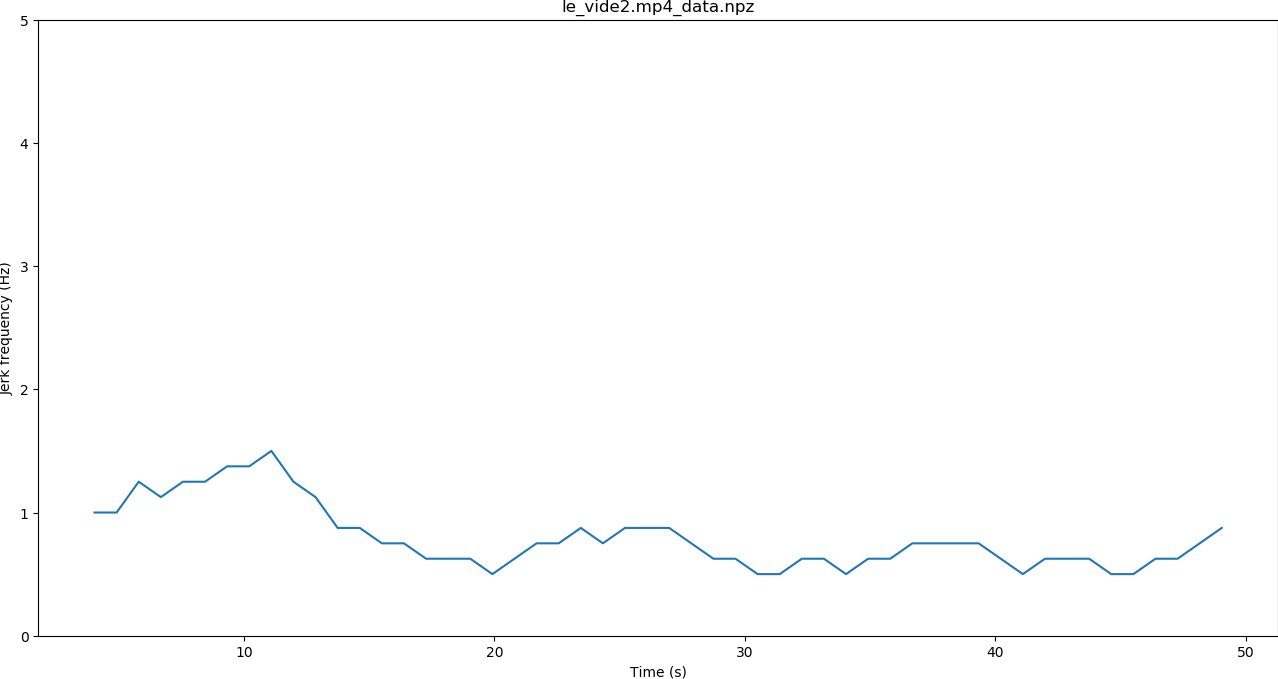
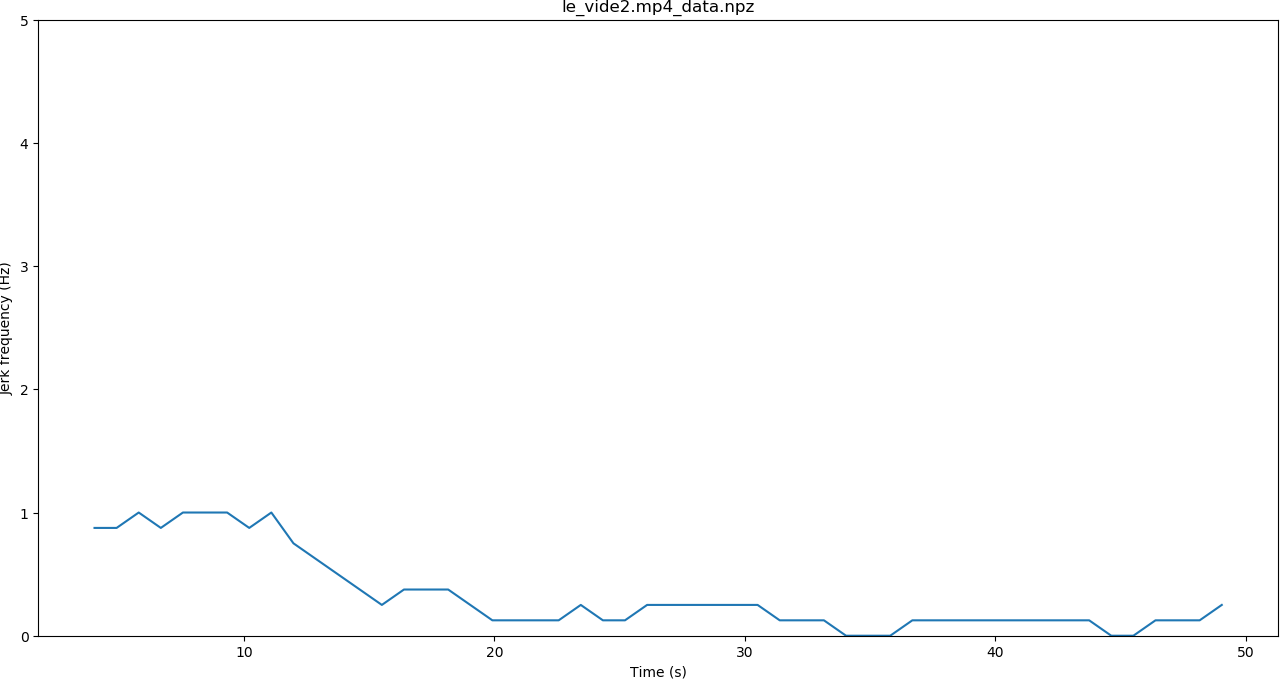
processDataDir : vérif manuelle, now updates DB, ...

diff --git a/py/main/processCourbes.py b/py/main/processCourbes.py
@@ -4,8 +4,12 @@ import numpy as np
 import scipy.signal as signal
 import pywt
 import os
+import sqlite3
 
 directory='../../'
+DBfile = "../../papertube.db"
+conn = sqlite3.connect(DBfile)
+cur = conn.cursor()
 
 def find_peaks(v,thres=0.05,graphCWT=False,graphPeaks=False):
     cwtmatr, freqs = pywt.cwt(v,np.arange(1,10),'mexh')
@@ -48,7 +52,7 @@ def running_freq(t,num,peaks,T):
     f = [nombre_pics_porte(t,peaks,t0,T)/T for t0 in f_t]
     return f_t, f
 
-def processDataDir(directory):
+def processDataDir_old(directory):
     for dirName, subdirList, fileList in os.walk(directory, topdown=False):
             for fname in fileList:
                 if fname.endswith("_data.npz"):
@@ -69,6 +73,46 @@ def processDataDir(directory):
                     plt.savefig(fname="../../fig_freq_main/"+fname+"_freq"+".png",bbox_inches='tight',pad_inches=0)
                     plt.close()
 #plt.show()
+
+def processDataDir(directory,fig_peaks_dir="fig_peaks_main/",fig_freq_dir="fig_freq_main/"):
+    for dirName, subdirList, fileList in os.walk(directory, topdown=False):
+            for fname in fileList:
+                if fname.endswith("_data.npz"):
+                    cur.execute("SELECT id FROM essai WHERE nomFichier=?",(fname.replace("_data.npz",""),))
+                    l = list(cur)
+                    if len(l)==0 :
+                        print("Le fichier d'essai correspondant à",fname,"n'a pas préalablement été importé.")
+                    else :
+                        if len(l)>1 : print("Attention, plusieurs essais ont le même nom de fichier (",fname,").")
+                        npzf = np.load(os.path.join(dirName, fname))
+                        t = npzf['t']
+                        v = npzf['d2']
+                        peaks=find_peaks_kuhn(v,thres=0.5,graphCWT=True,graphPeaks=True)
+                        plt.title(fname)
+                        print("La détection des pics est-elle correcte ? (fermer le plot avant de répondre) (o/n)")
+                        plt.show()
+                        while (input()!="o"):
+                            plt.close()
+                            print("Choisir un seuil :")
+                            s = float(input())
+                            peaks=find_peaks(v,thres=s,graphCWT=True,graphPeaks=True)
+                            plt.title(fname)
+                            print("Et maintenant ? (fermer le plot avant de répondre) (o/n)")
+                            plt.show()
+                        plt.savefig(fname="../../"+fig_peaks_dir+fname+"_peaks"+".png",bbox_inches='tight',pad_inches=0)
+                        plt.close()
+                        freq_t,freq=running_freq(t,int(t[-1]-t[0]),peaks,8)
+                        plt.figure(figsize=(16,8))
+                        plt.plot(freq_t,freq)
+                        plt.ylim(0,5)
+                        plt.ylabel("Jerk frequency (Hz)")
+                        plt.xlabel("Time (s)")
+                        plt.title(fname)
+                        plt.savefig(fname="../../"+fig_freq_dir+fname+"_freq"+".png",bbox_inches='tight',pad_inches=0)
+                        plt.close()
+                        cur.execute("INSERT INTO essai_res(idEssai,fichierFreq) VALUES(?,?)",(l[0][0],fig_freq_dir+fname+"_freq"+".png"))
+                        conn.commit()
+                        
 
 def readData(datafname):
     npzf = np.load(datafname)

diff --git a/py/main/video2courbe.py b/py/main/video2courbe.py
@@ -5,13 +5,15 @@ import scipy.signal as signal
 import matplotlib.pyplot as plt
 import os
 
-inputdir='../../video/'
-outputdir='../../video_data/'
+inputdir='video/'
+outputdir='video_data/'
 
 
 def processDir(inputdir,outputdir,squaresize=0):
     q=0 # déjà existants
     r=0 # nouveaux
+    inputdir="../../"+inputdir
+    outputdir="../../"+outputdir
     for dirName, subdirList, fileList in os.walk(inputdir, topdown=False):
             for fname in fileList:
                 if fname.endswith(".mp4"):

diff --git a/README.md b/README.md
@@ -62,13 +62,13 @@ fais un sous-dossier dans video/ (que j'appelerai ici *banane*) et mets toutes l
 
 dans Pyzo,
 ```
-processDir(../../video/banane/, ../../video_data/)
+processDir("video/banane/", "video_data/")
 ```
 
 #### Importation dans la DB : papertube.db
 
 ```
-intoDB(../../video/banane)
+intoDB("video/banane")
 ```
 
 cela te demandera de renseigner tous les paramètres relatifs à ta série de mesures (tous les fichiers dans *banane/* auront les mêmes paramètres) ; je te conseille de jeter un oeil à la structure de la DB
@@ -77,7 +77,11 @@ cela te demandera de renseigner tous les paramètres relatifs à ta série de me
 
 s'ils n'existent pas, crée les dossiers fig_peaks_main et fig_freq_main à la racine du projet
 ```
-processDataDir(../../video_data/)
+processDataDir("video_data/")
 ```
 
-tu retrouveras dans fig_peaks_main/ et fig_freq_main/ les résultats (respectivement les graphes de détection des à-coups, les courbes temps-fréquence)
+je viens de changer la fonction, il faut pour chaque fichier vérifier si la détection des pics est correcte, au cas où il faudrait définir le seuil manuellement, puis ça met à jour la DB
+
+tu retrouveras (par défaut) dans fig_peaks_main/ et fig_freq_main/ les résultats (respectivement les graphes de détection des à-coups, les courbes temps-fréquence)
+
+**Remarque de fin** : ne pas oublier dans les chemins de dossiers le '/' à la fin !
